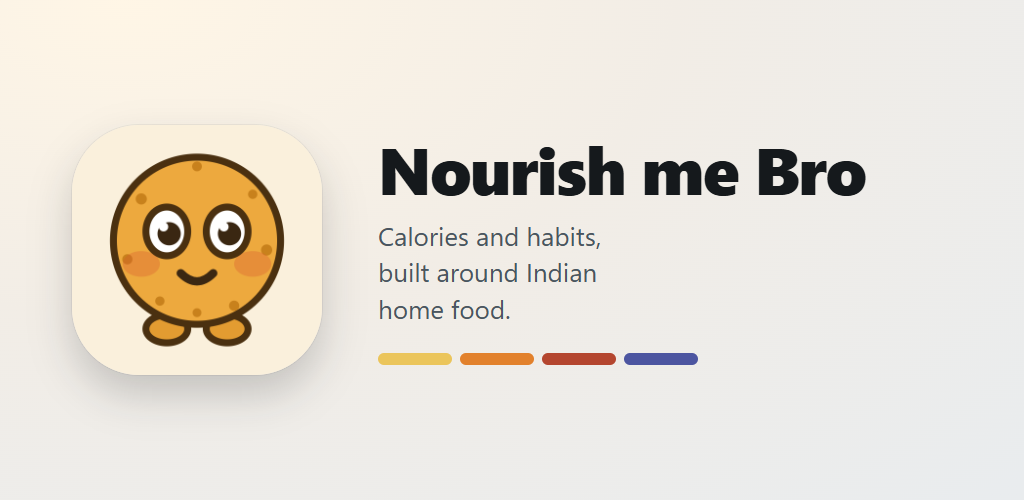
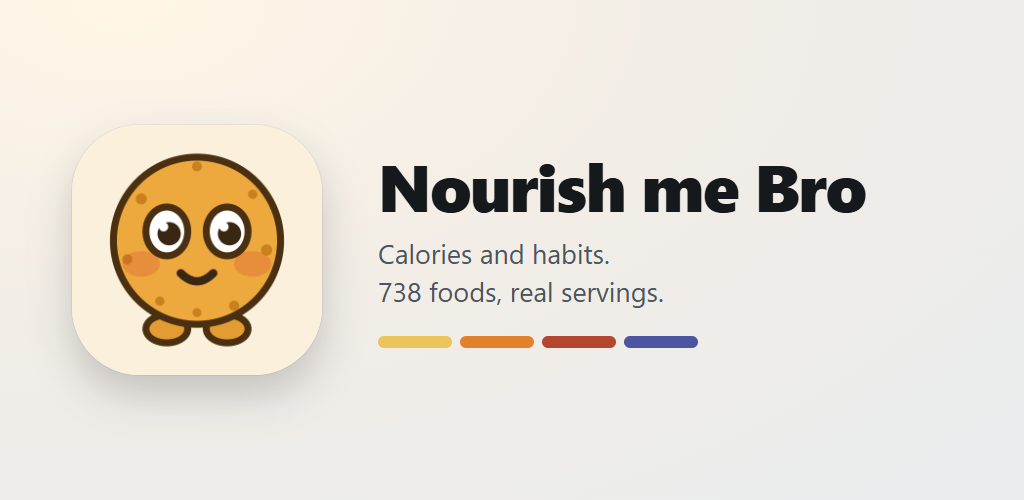
Describe the app by what it does, not by one cuisine
The food list is already broad -- Italian, Chinese and Asian, fast food,
sandwiches, Western breakfast, cafe and bakery, soups and salads all have
real coverage -- so leading with Indian home food undersold it. Indian
coverage stays as a strength named in the long description.

Changed region(s): [[0.3438, 0.27, 0.8438, 0.75]]

diff --git a/store/feature.html b/store/feature.html
@@ -12,7 +12,7 @@
   .mascot{width:250px;height:250px;flex:none;border-radius:27%;
     box-shadow:0 20px 40px rgba(21,25,28,.20),0 0 0 1px rgba(21,25,28,.06)}
   h1{margin:0;font-size:66px;line-height:1.02;letter-spacing:-.025em;color:#15191C;font-weight:800}
-  p{margin:16px 0 0;font-size:26px;color:#4A5560;max-width:19ch}
+  p{margin:16px 0 0;font-size:27px;color:#4A5560;max-width:none}
   /* The dawn-to-night meal ramp, the app's own way of telling meals apart. */
   .ramp{display:flex;gap:8px;margin-top:26px}
   .ramp i{height:12px;width:74px;border-radius:99px;display:block}
@@ -21,7 +21,7 @@
   <img class="mascot" src="../icon-512.png" alt="">
   <div>
     <h1>Nourish me&nbsp;Bro</h1>
-    <p>Calories and habits, built around Indian home food.</p>
+    <p>Calories and habits.<br>738 foods, real servings.</p>
     <div class="ramp">
       <i style="background:#EBC55B"></i><i style="background:#E2812C"></i>
       <i style="background:#B4462F"></i><i style="background:#4C55A0"></i>

diff --git a/index.html b/index.html
@@ -6,7 +6,7 @@
 <meta name="color-scheme" content="light dark">
 <meta name="theme-color" content="#E9ECEE" media="(prefers-color-scheme: light)">
 <meta name="theme-color" content="#0E1113" media="(prefers-color-scheme: dark)">
-<meta name="description" content="Track calories, macros and daily habits. Built around Indian home food.">
+<meta name="description" content="Track calories, macros and daily habits. 738 foods with real serving sizes.">
 <meta name="apple-mobile-web-app-capable" content="yes">
 <meta name="mobile-web-app-capable" content="yes">
 <meta name="apple-mobile-web-app-status-bar-style" content="default">

diff --git a/store/LISTING.md b/store/LISTING.md
@@ -13,21 +13,29 @@ Privacy policy: https://prasangr.github.io/NourishMeBro1/privacy.html
 
 ## Short description (80 char limit)
 
-    Calorie and habit tracker built around Indian home food. 736 dishes built in.
+    Calorie and habit tracker. 738 foods, real servings, no weighing scale.
 
 ## Full description
 
-    Most calorie apps are built around Western food. Searching for what you
-    actually ate at home — poha, dal tadka, jowar roti, bhindi masala — means
-    scrolling past twenty American brands to find nothing.
+    Most calorie apps make you work for every meal: hunt through brand names you
+    never ate, weigh things on a scale you do not own, then find the dish you
+    actually had is missing.
 
-    Nourish me Bro starts with Indian home food. 736 dishes are already in it,
-    with sensible servings: one bowl of dal, two rotis, one plate of poha. No
-    weighing scale needed.
+    Nourish me Bro is built the other way round. 738 foods are already in it,
+    each with a serving a person would recognise: one bowl of pasta, two slices
+    of toast, one plate of poha, a medium banana. Pick it, log it, move on.
+
+    WHAT IS IN IT
+
+    Home cooking, restaurant plates and everyday packaged food across Italian,
+    Chinese and Asian, fast food, sandwiches and wraps, salads, soups, eggs,
+    Western breakfasts, cafe and bakery items, protein and fitness foods,
+    fruit, nuts, dairy and sweets. Indian home food is covered properly too,
+    which most trackers get wrong or skip entirely.
 
     WHAT IT DOES
 
-    • Log a meal in a couple of taps, or just type "2 roti, dal, curd"
+    • Log a meal in a couple of taps, or just type "2 toast, eggs, coffee"
     • See calories, protein, carbs, fat and fibre against your own targets
     • Track daily habits and streaks — workout, sleep, steps, whatever you pick
     • Log water by the glass
